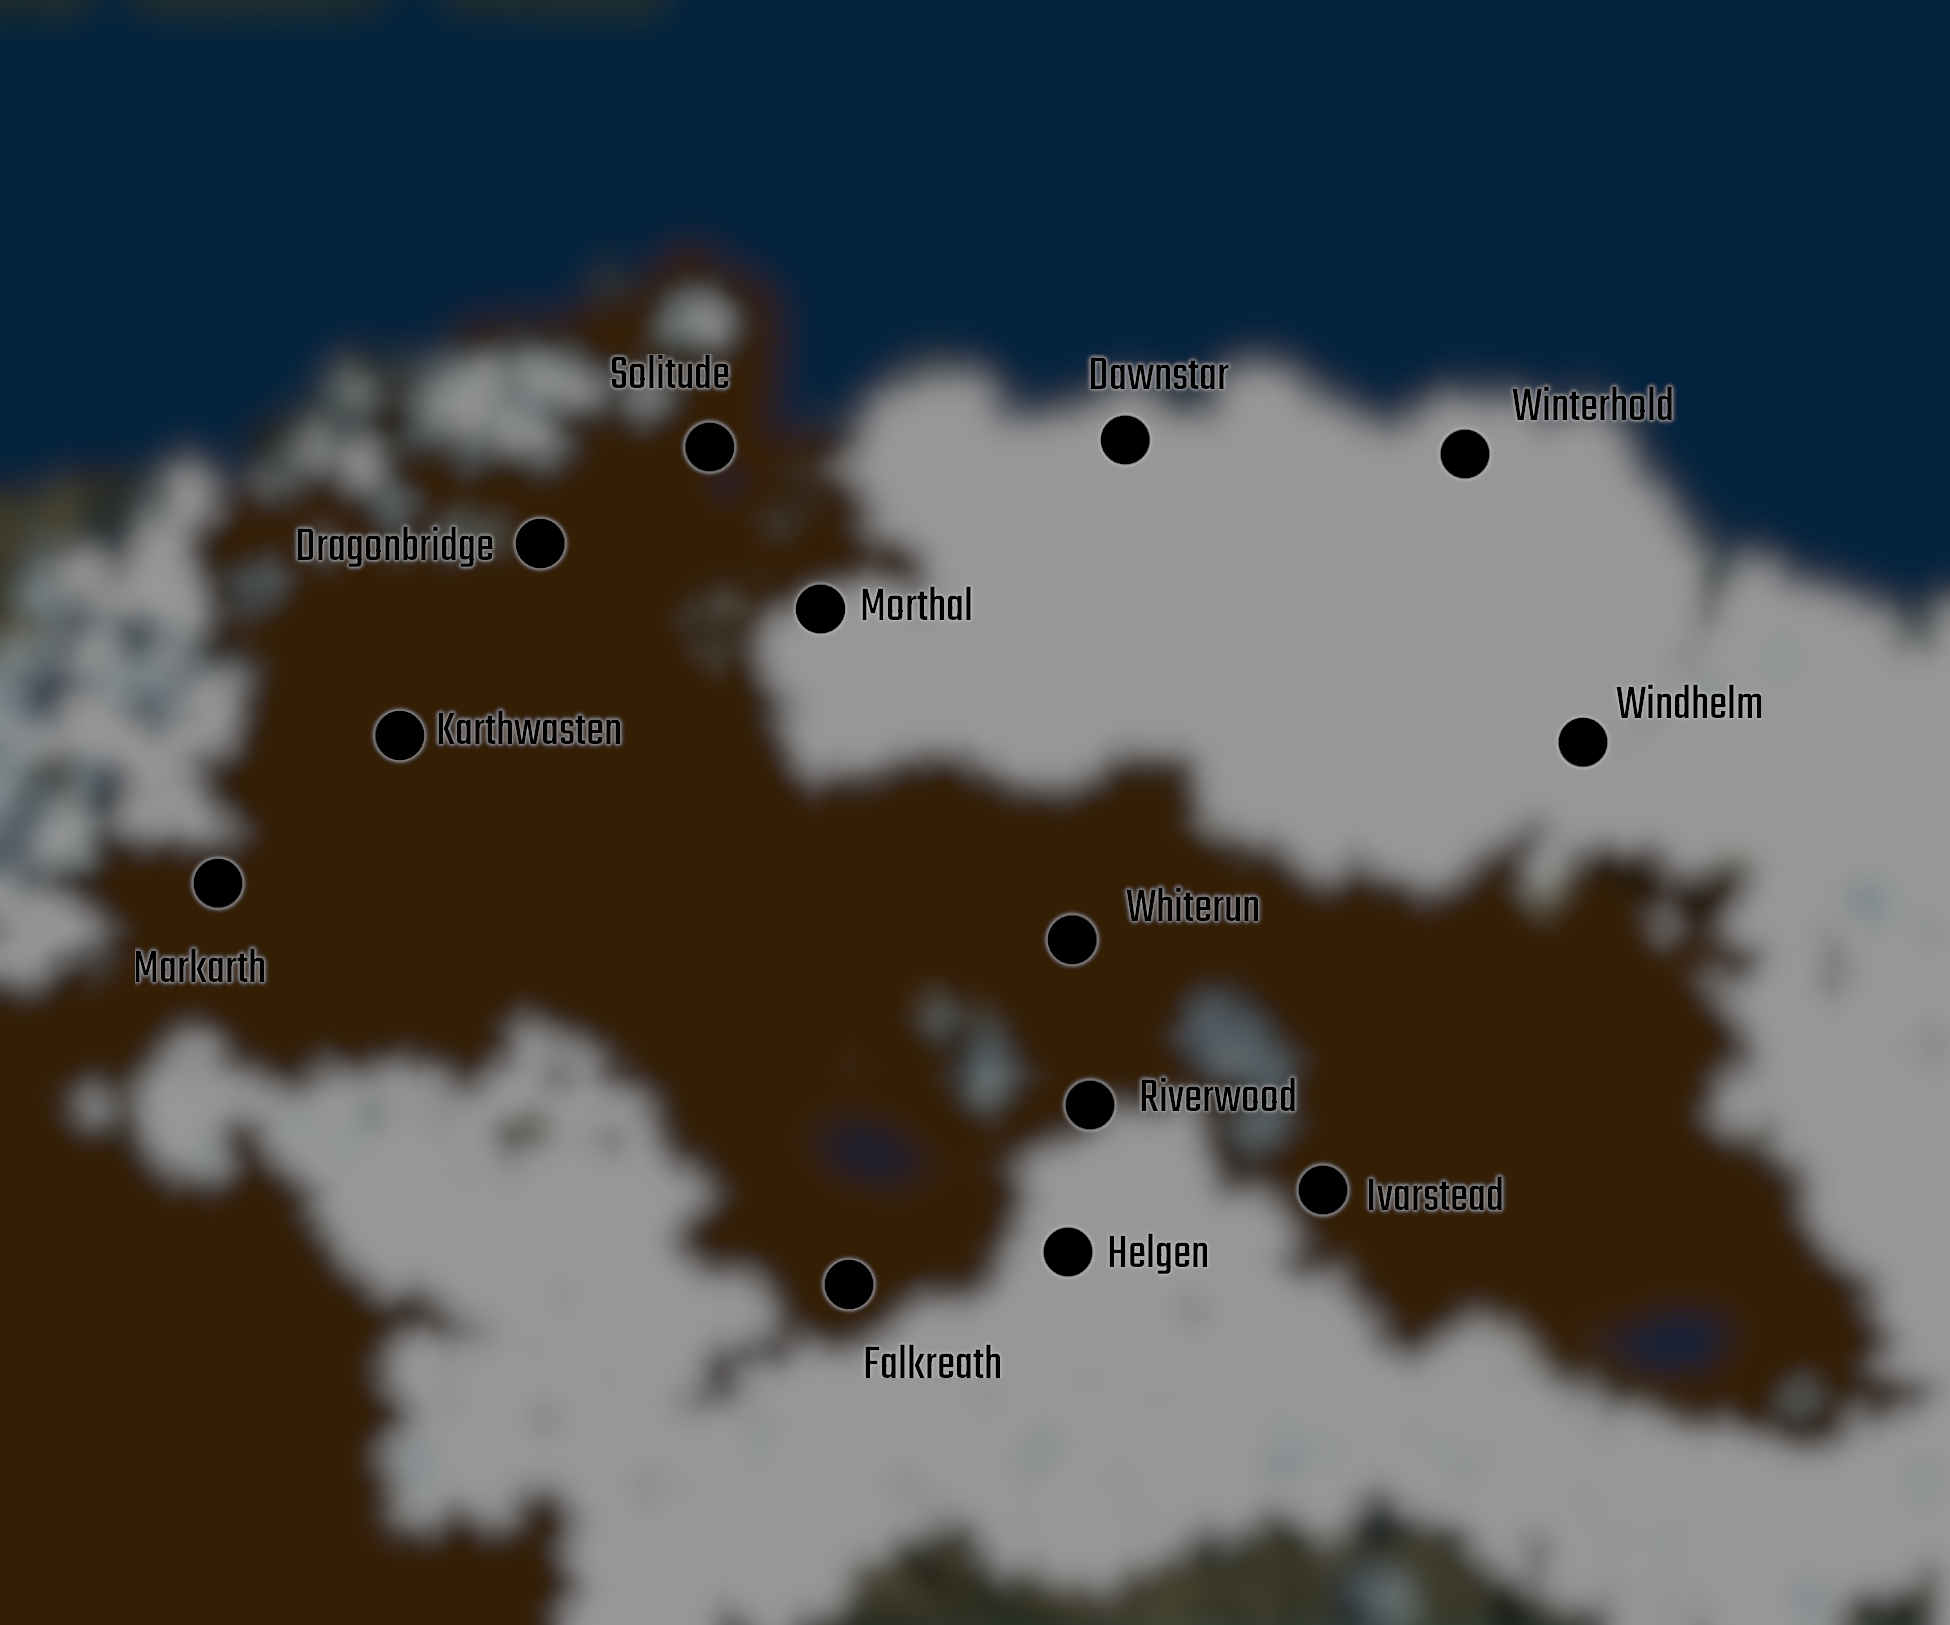
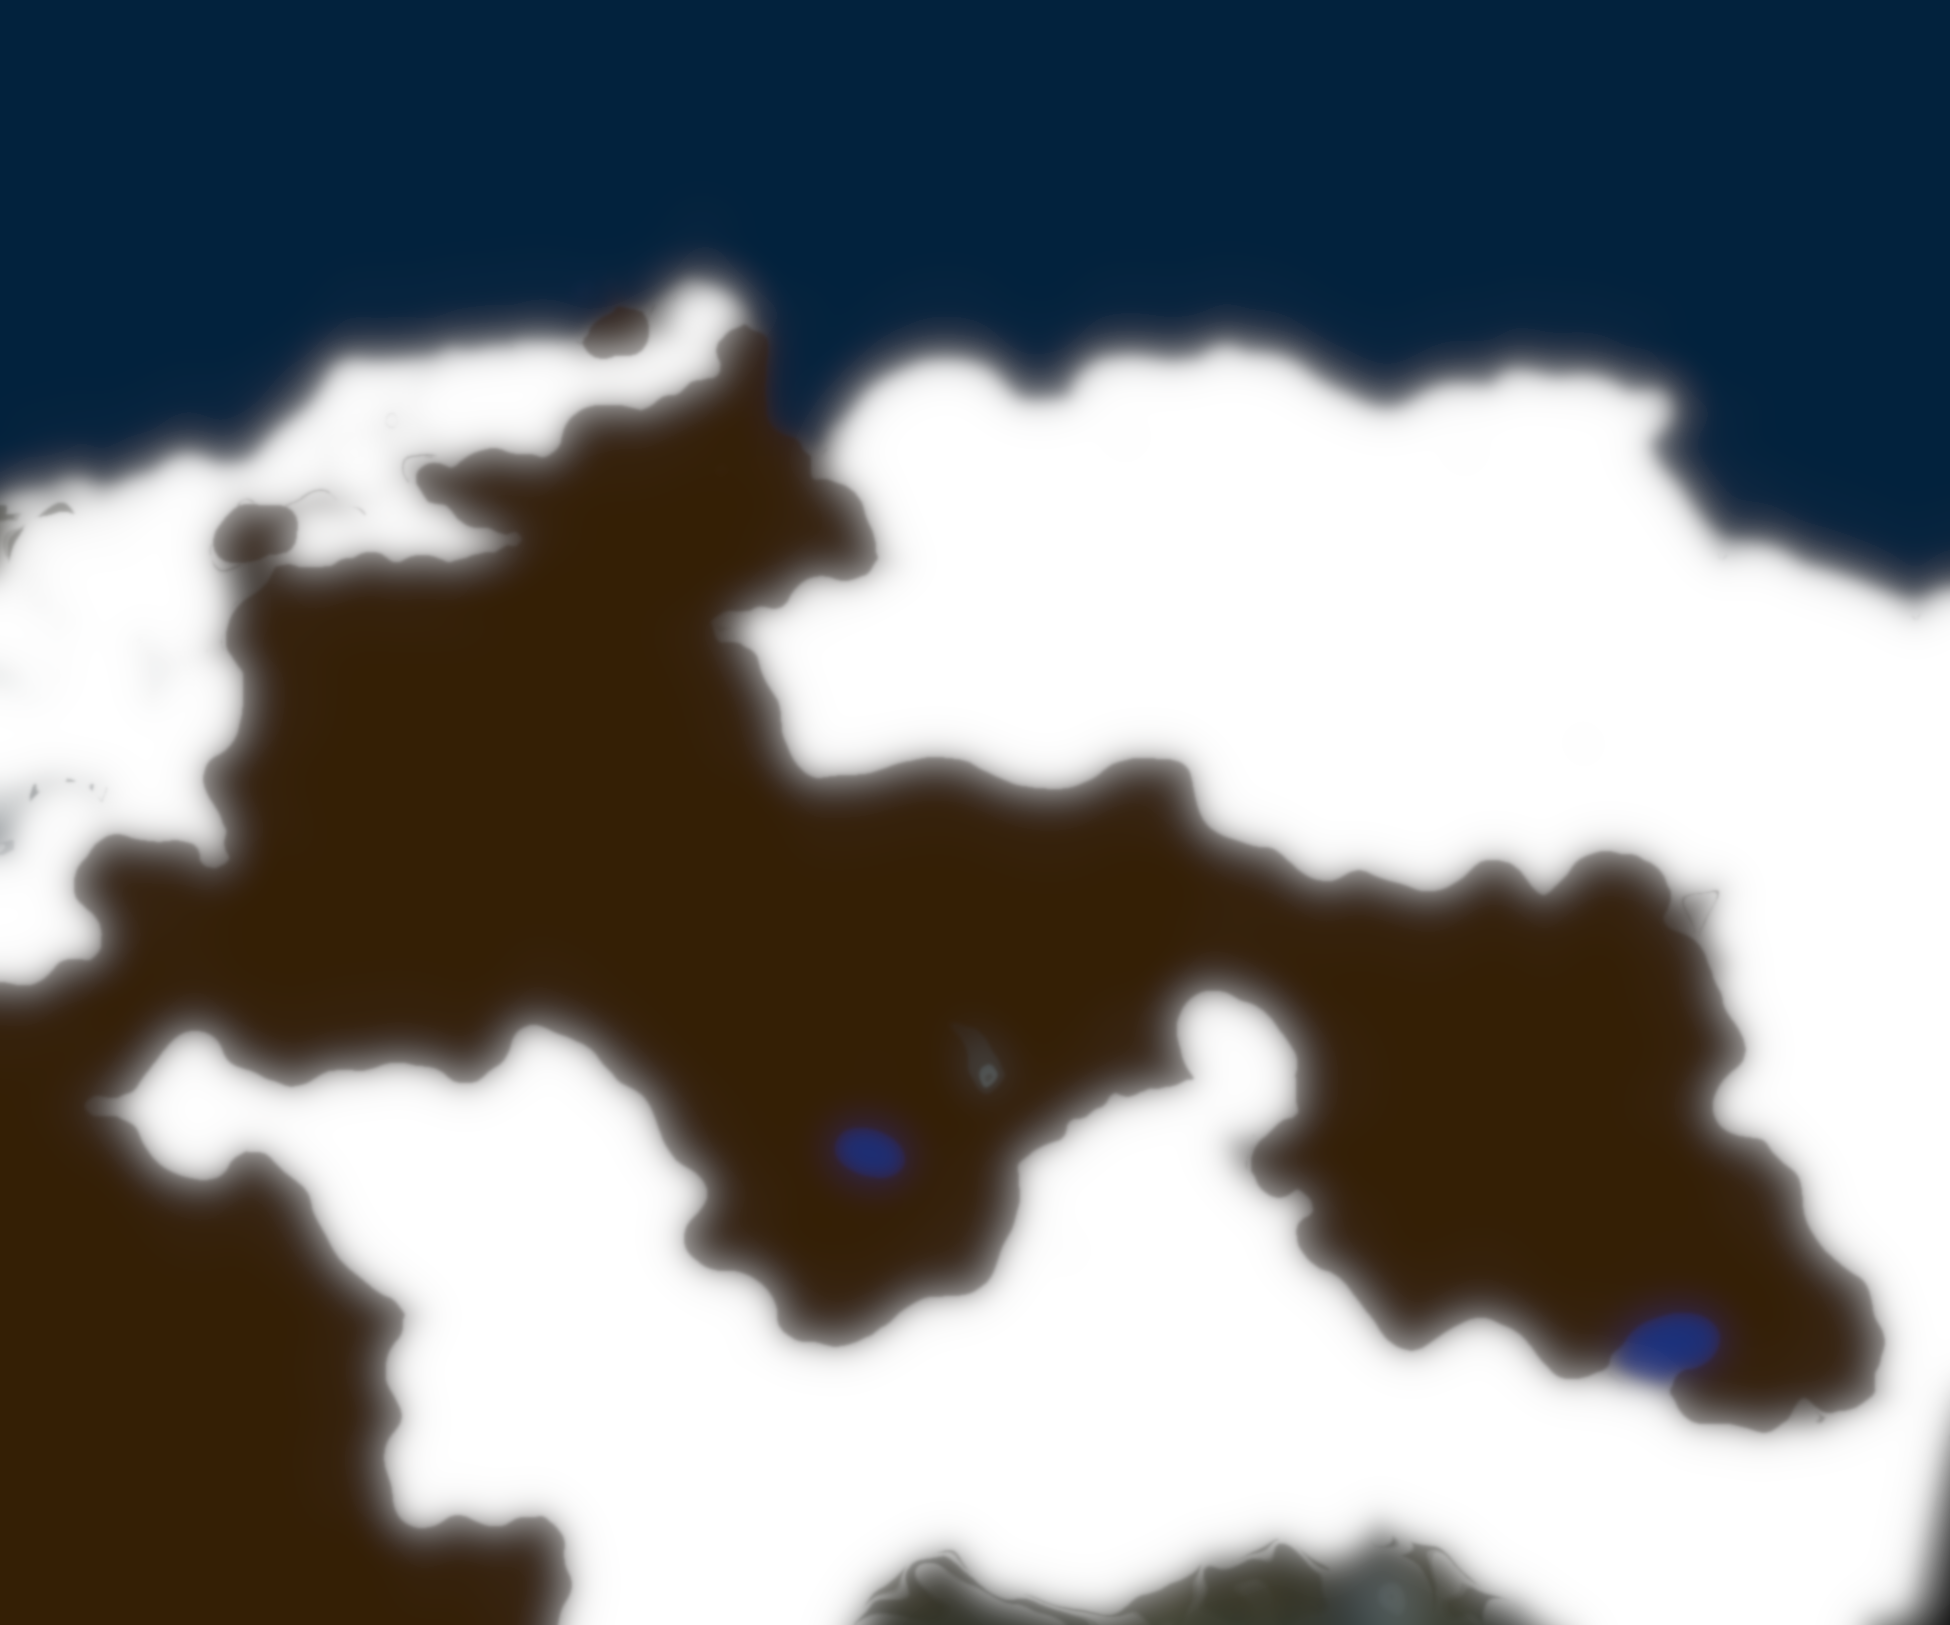
* openrouter exmaples deactivated by defualt * Updated map with no city markers * Fix bug repeated user input * Enforced prompts on spawncharacter * GPS track 15 in-game minutes
# Please enter the commit message for your changes. Lines starting

diff --git a/service/processors/rolemaster/cmd/spawncharacter.php b/service/processors/rolemaster/cmd/spawncharacter.php
@@ -66,8 +66,22 @@ if (!isset($GLOBALS["CHIM_CORE_CURRENT_CONNECTOR_DATA"]) ) {
             }
         }
 
-       
-      
+        $GLOBALS["custom_json_template"]=[
+                "name" => "Name Surname/Name Nickname",
+                "gender" => "male|female",
+                "class" => "beggar|warrior|assassin|mage|farmer|soldier|merchant|noble|priest",
+                "race" => "Nord|Imperial|Argonian|RedGuard|Orc|Breton",
+                "location" => "current location name|nearby",
+                "appearance" => "(describe actor)",
+                "background" => "(give a background for the actor)",
+                "speechStyle" => "(describe speech style)",
+                "traits"=>"traits",
+                "disposition" => "defiant|submissive|friendly|serious|sad|aggressive|cheerful|distrustful|furious|drunk|high",
+                "goal"=>"NPC's goal in life."
+        ];
+        
+        $GLOBALS["custom_json_template_as_text"]=json_encode($GLOBALS["custom_json_template"]);
+
         if (!$GLOBALS["argv"][3]) {
             $sysprompt="You are a game director, you must create a new NPC/actor";
         } else {
@@ -85,29 +99,18 @@ if (!isset($GLOBALS["CHIM_CORE_CURRENT_CONNECTOR_DATA"]) ) {
  * Use Tamrielic names. Use Name and Surname (example Hans Ulfon) or name nickname (Example: Orik Stormbreaker, Nidia the Witch)
  * Name should $nameRandom
  * Human Races are Nord, Imperial RedGuard and Breton.
- * Give your answer as JSON object
+ * Give your answer as JSON object:
+ {$GLOBALS["custom_json_template_as_text"]}
+        
+ * Use classes and races specified in the above JSON. Non existans classes or races will throw error.
  $sysprompt
 ");
-        
-        
         
         $customParm["response_format"]=["type"=>"json_object"];
         $customParm["MAX_TOKENS"]=4000;
         
         $GLOBALS["HOOKS"]["JSON_TEMPLATE"][]=function() {
-            $GLOBALS["responseTemplate"] = [
-                "name" => "Name Surname/Name Nickname",
-                "gender" => "male|female",
-                "class" => "beggar|warrior|assassin|mage|farmer|soldier|merchant|noble",
-                "race" => "Nord|Imperial|Argonian|RedGuard|Orc|Breton",
-                "location" => "current location name|nearby",
-                "appearance" => "(describe actor)",
-                "background" => "(give a background for the actor)",
-                "speechStyle" => "(describe speech style)",
-                "traits"=>"traits",
-                "disposition" => "defiant|submissive|friendly|serious|sad|aggressive|cheerful|distrustful|furious|drunk|high",
-                "goal"=>"NPC's goal in life."
-            ];
+            $GLOBALS["responseTemplate"] = $GLOBALS["custom_json_template"];
         };
 
         $GLOBALS["CONNECTOR"][$GLOBALS["CURRENT_CONNECTOR"]]["json_schema"]=false;

diff --git a/debug/simple_llm_request_with_context_life.php b/debug/simple_llm_request_with_context_life.php
@@ -239,10 +239,10 @@ $currentHoldEsc = $db->escape($LAST_REPORTED_LOCATION);
 if ($currentHoldEsc) {
     $query2 = "SELECT gamets,content FROM rumors WHERE hold like '%{$currentHoldEsc}%' and gamets>" . ($gameRequest[2] - ((24 * 7) / 0.0000024));
     error_log($query2);
-    $rumorsData = $db->fetchAll($query2);
+    $rumors = $db->fetchAll($query2);
     foreach ($rumors as $event) {
         $bgEvents[] = ["gamets" => $event["gamets"], "content" => "{$event["content"]}", "type" => "rumor"];
-
+        error_log("[BACKGROUNDLIFE] Adding rumor {$event["content"]}");
     }
 
 }
@@ -250,7 +250,7 @@ if ($currentHoldEsc) {
 print_r($bgEvents);
 
 // Must mix bgEvents array and diaryEntry array, and order them using key gamets asc
-$combinedEvents = array_merge($bgEvents, $diaryEntry, $rumors);
+$combinedEvents = array_merge($bgEvents, $diaryEntry);
 usort($combinedEvents, function ($a, $b) {
     return $a['gamets'] <=> $b['gamets'];
 });
@@ -364,7 +364,7 @@ $buffer
 Possible actions (check character's goals section):
 StayAtPlace - The character remains in their current location, performing activities locally. Take into account how much time character has been at this location and is current task. If gathering info or spreading rumors, should stay at least 24 hours.
 TravelTo:<Place> - the character decides to travel to another location (replace <Place> with the chosen destination).The character should have a clear and logical reason for traveling.
-ReturnHome: character returns to its base location. Use when no further action is needed or all goals have been accomplished.
+ReturnHome - Character returns to its base location, probably to meet {$GLOBALS["PLAYER_NAME"]} . Use when no further action is needed or all goals have been accomplished.
 Your answer must use markup - XML like - format, containing exactly 3 elements:
 
 <action> ... </action>
@@ -437,6 +437,8 @@ if (is_array($parsed)) {
 
         } else if ($cmds[0] == "StayAtPlace") {
             handleStayAtPlaceAction($cmds[1], $currentNpcData, $GLOBALS["HERIKA_NAME"], $last_ts, $last_gamets, $momentum, $db);
+        } else if ($cmds[0] == "ReturnHome") {
+            handleReturnHome($cmds[1], $currentNpcData, $GLOBALS["HERIKA_NAME"], $last_ts, $last_gamets, $momentum, $db);
         }
     }
 

diff --git a/service/processors/middleterm/entrypoint.php b/service/processors/middleterm/entrypoint.php
@@ -54,7 +54,7 @@ $GLOBALS["TASKS"]["middleterm"]["fn"]=function() {
     $allEnabledBgLNpc=$GLOBALS["db"]->fetchAll("SELECT * FROM core_npc_master WHERE extended_data->>'background_life_enabled' = 'true' AND metadata->'gps_track' = 'true' ");
     foreach ($allEnabledBgLNpc as $npc) {
          $mwdata=json_decode($npc["metadata"],true);
-        if (!isset($mwdata["last_coords"]["last_updated"]) || !$mwdata["last_coords"]["last_updated"] || $mwdata["last_coords"]["last_updated"]<($maxRow - ( 1 /0.0000024))) {
+        if (!isset($mwdata["last_coords"]["last_updated"]) || !$mwdata["last_coords"]["last_updated"] || $mwdata["last_coords"]["last_updated"]<($maxRow - ( (1/4) / 0.0000024))) {
             echo("[BACKGROUND-LIFE] Tracking {$npc["npc_name"]} gps_track=true ".PHP_EOL);
             `php $enginePath/debug/simple_llm_request_with_context_life_command.php "{$npc["npc_name"]}" Track`;
         }

diff --git a/processor/comm.php b/processor/comm.php
@@ -1110,6 +1110,22 @@ if ($gameRequest[0] == "wipe") { // Reset reponses if init sent (Think about thi
             $npcMaster->updateByArray($currentNpcData);
             
             Logger::info("Updated last_coords for {$currentNpcData["npc_name"]}");
+
+            // Experiment
+            try {
+                $db->insert(
+                    'point_cloud',
+                    array(
+                        'x' => $splitNameBase[1],
+                        'y' => $splitNameBase[2],
+                        'z' => $splitNameBase[3],
+                        'tag' => $splitNameBase[4],
+                        'gamets'=>$gameRequest[2]
+                    )
+                );
+            } catch (Exception $e) {
+                Logger::warn("Failed to insert cloud point location data: " . $e->getMessage());
+            }
         }
     }
 

diff --git a/lib/rolemaster_helpers.php b/lib/rolemaster_helpers.php
@@ -473,8 +473,17 @@ function npcProfileBase($name,$class,$race,$gender,$location,$taskId) {
 
 
     $parm5 = $masterDataTemplates["{$gender}_{$race}"][array_rand($masterDataTemplates["{$gender}_{$race}"])];
-    $parm1 = $masterData["{$gender}_{$race}_{$class}"][array_rand($masterData["{$gender}_{$race}_{$class}"])];
-    $parm2=$outfit["{$class}"][array_rand($outfit["{$class}"])];
+    $dclass=$class;
+    if ($class=="priest")
+        $dclass="mage";
+    
+    
+    $parm1 = $masterData["{$gender}_{$race}_{$dclass}"][array_rand($masterData["{$gender}_{$race}_{$dclass}"])];
+
+    if ($class=="priest")
+        $dclass="bard";
+
+    $parm2=$outfit["{$dclass}"][array_rand($outfit["{$dclass}"])];
 
     //$parm3=$weapon["{$weapon}"][0];
     $rumors=false;

diff --git a/connector/openrouterjson.php b/connector/openrouterjson.php
@@ -483,7 +483,7 @@ class openrouterjson
         
         if (!$assistantAppearedInhistory) { // is this still needed?
             
-            if (isset($GLOBALS["CHIM_NO_EXAMPLES"]) && $GLOBALS["CHIM_NO_EXAMPLES"]) {
+            if (isset($GLOBALS["CHIM_LLM_EXAMPLES"]) && $GLOBALS["CHIM_LLM_EXAMPLES"]) {
                 $contextExamples=[];
             } else {
                 // EXAMPLES

diff --git a/lib/data_functions.php b/lib/data_functions.php
@@ -1251,7 +1251,10 @@ New setting: $currentLocation
 
     if (isset($previousRow)) {
         if (sizeof($previousRow)>0) {
-            $lastDialogFull[]=$previousRow;;
+            if (sizeof($lastDialogFull) === 0 || $previousRow !== end($lastDialogFull)) {
+                $lastDialogFull[]=$previousRow;
+            }
+            
         }
     }
 

diff --git a/ui/mapview.php b/ui/mapview.php
@@ -426,6 +426,7 @@ include(__DIR__.DIRECTORY_SEPARATOR."tmpl/head.html");
         position: absolute;
         transform: translate(-50%, -50%);
         cursor: pointer;
+        z-index:10;
     }
 
     .marker-dot {
